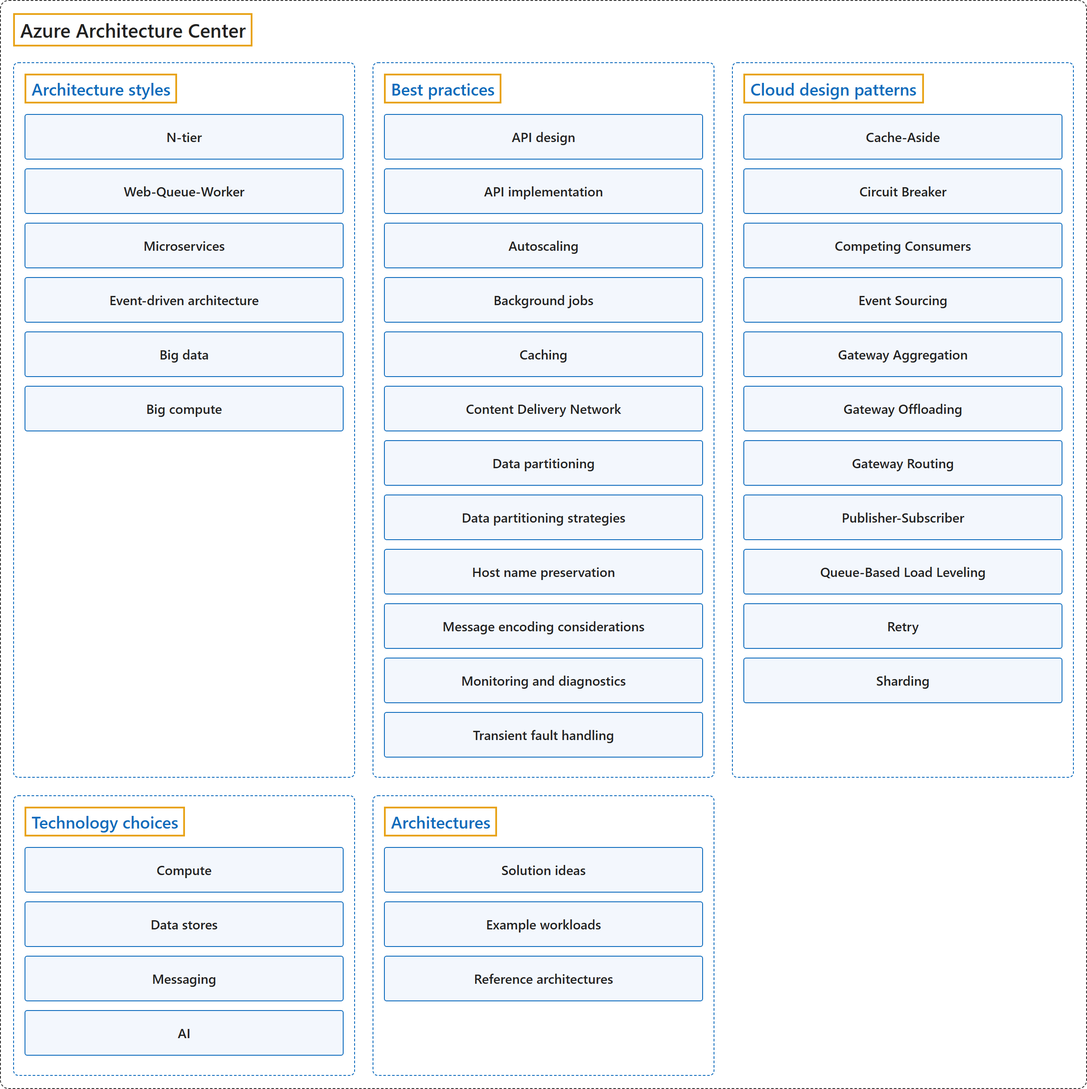
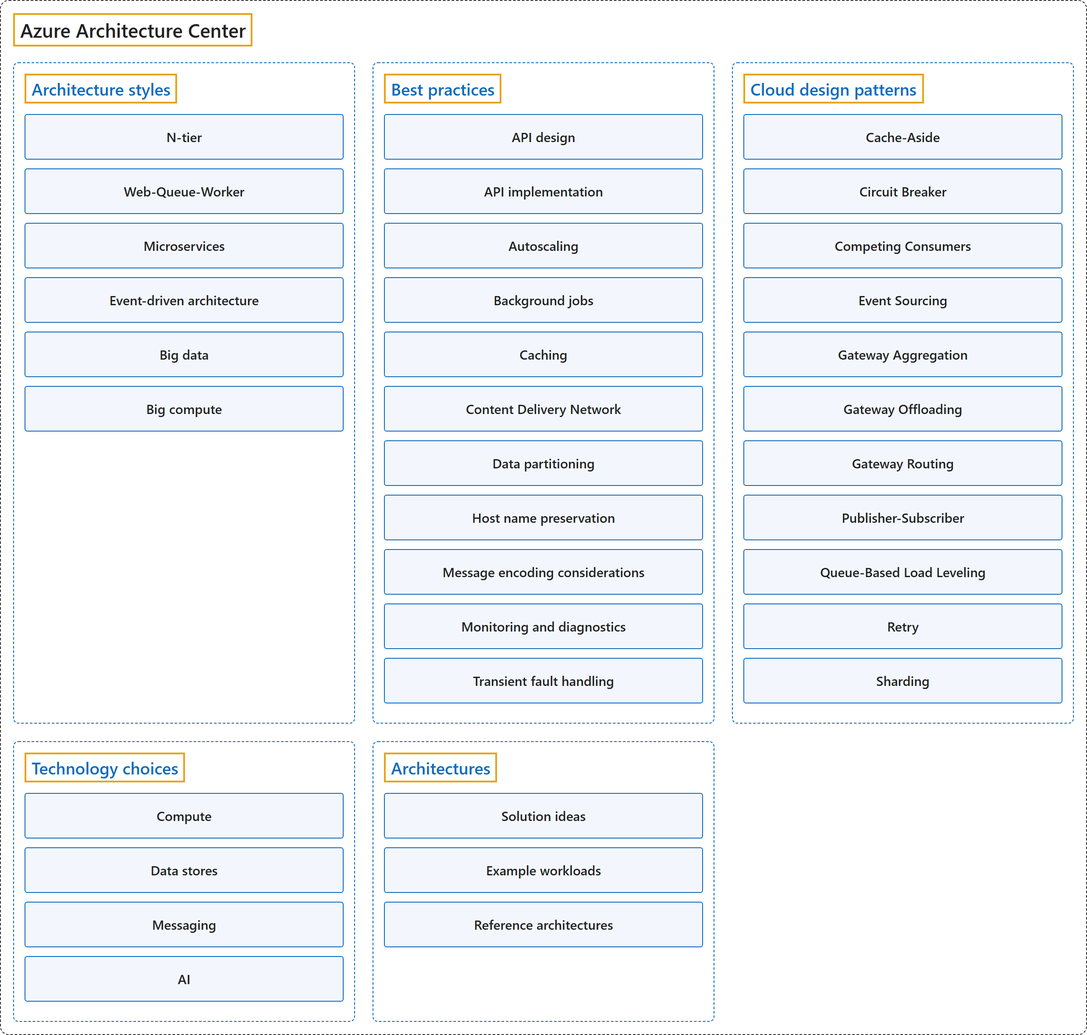
feat(azure): 27.1-27.5 Azure Architecture Center; 26.4 Adopt expanded into its 13 steps

diff --git a/figures/cloud/azure/cloud-adoption-framework/adopt.html b/figures/cloud/azure/cloud-adoption-framework/adopt.html
@@ -18,11 +18,46 @@
   <div class="row" style="gap:70px;align-items:flex-start;">
     <div class="col">
       <div class="group" style="border:none;padding:0 12px 0 12px;">
-        <div class="item">Migration</div>
-        <div class="item">Modernization</div>
-        <div class="item">Cloud-native</div>
+        <div class="item" id="f0">Migration</div>
+        <div class="item" id="f1">Modernization</div>
+        <div class="item" id="f2">Cloud-native</div>
+      </div>
+    </div>
+    <div class="col" style="gap:16px;">
+      <div class="group">
+        <div class="title" id="t0">Migration</div>
+        <div class="item">Plan</div>
+        <div class="item">Prepare</div>
+        <div class="item">Execute</div>
+        <div class="item">Optimize</div>
+        <div class="item">Decommission</div>
+      </div>
+      <div class="group">
+        <div class="title" id="t1">Modernization</div>
+        <div class="item">Prepare</div>
+        <div class="item">Plan</div>
+        <div class="item">Execute</div>
+        <div class="item">Optimize</div>
+      </div>
+      <div class="group">
+        <div class="title" id="t2">Cloud-native</div>
+        <div class="item">Plan</div>
+        <div class="item">Build</div>
+        <div class="item">Deploy</div>
+        <div class="item">Optimize</div>
       </div>
     </div>
   </div>
+  <svg id="link" style="position:absolute;left:0;top:0;overflow:visible;pointer-events:none;"></svg>
 </div>
+<script>
+  const fig = document.getElementById('fig').getBoundingClientRect();
+  let p = '';
+  for (const [f, t] of [['f0','t0'],['f1','t1'],['f2','t2']]) {
+    const a = document.getElementById(f).getBoundingClientRect(), b = document.getElementById(t).getBoundingClientRect();
+    const x1 = a.right - fig.left, y1 = a.top + a.height / 2 - fig.top, x2 = b.left - fig.left, y2 = b.top + b.height / 2 - fig.top, mx = (x1 + x2) / 2;
+    p += `<path d="M${x1},${y1} C${mx},${y1} ${mx},${y2} ${x2},${y2}" fill="none" stroke="#0f6cbd" stroke-width="1.5" stroke-dasharray="5 4"/>`;
+  }
+  document.getElementById('link').innerHTML = p;
+</script>
 </body></html>

diff --git a/figures/cloud/azure/architecture-center/best-practices.html b/figures/cloud/azure/architecture-center/best-practices.html
@@ -1,0 +1,33 @@
+<!doctype html>
+<html><head><meta charset="utf-8">
+<style>
+  body { margin: 0; background: #fff; font-family: "Segoe UI", sans-serif; }
+  .frame { display: inline-block; margin: 2px; padding: 14px 14px 14px; border: 1.5px dashed #333; border-radius: 10px; }
+  .title { display: inline-block; border: 2px solid #e8a317; padding: 2px 6px; font-size: 22px; font-weight: 600; color: #222; margin-bottom: 18px; }
+  .row { display: flex; gap: 14px; align-items: stretch; }
+  .frame > .col { width: 330px; gap: 0; }
+  .col { display: flex; flex-direction: column; gap: 14px; }
+  .col .group { flex: 1 0 auto; }
+  .group { min-width: 330px; border: 1.5px dashed #0f6cbd; border-radius: 6px; padding: 12px; box-sizing: border-box; }
+  .group .title { white-space: nowrap; color: #0f6cbd; font-size: 19px; margin-bottom: 12px; }
+  .item { border: 2px solid #e8a317; background: #f3f7fd; border-radius: 3px; height: 34px; margin-bottom: 8px;
+          display: flex; align-items: center; justify-content: center; font-size: 14px; font-weight: 600; text-align: center; padding: 0 6px; color: #222; }
+</style></head>
+<body>
+<div class="frame" id="fig">
+  <div class="title">Best practices</div>
+  <div class="col">
+    <div class="item">API design</div>
+    <div class="item">API implementation</div>
+    <div class="item">Autoscaling</div>
+    <div class="item">Background jobs</div>
+    <div class="item">Caching</div>
+    <div class="item">Content Delivery Network</div>
+    <div class="item">Data partitioning</div>
+    <div class="item">Host name preservation</div>
+    <div class="item">Message encoding considerations</div>
+    <div class="item">Monitoring and diagnostics</div>
+    <div class="item">Transient fault handling</div>
+  </div>
+</div>
+</body></html>

diff --git a/figures/cloud/azure/architecture-center/cloud-design-patterns.html b/figures/cloud/azure/architecture-center/cloud-design-patterns.html
@@ -1,0 +1,33 @@
+<!doctype html>
+<html><head><meta charset="utf-8">
+<style>
+  body { margin: 0; background: #fff; font-family: "Segoe UI", sans-serif; }
+  .frame { display: inline-block; margin: 2px; padding: 14px 14px 14px; border: 1.5px dashed #333; border-radius: 10px; }
+  .title { display: inline-block; border: 2px solid #e8a317; padding: 2px 6px; font-size: 22px; font-weight: 600; color: #222; margin-bottom: 18px; }
+  .row { display: flex; gap: 14px; align-items: stretch; }
+  .frame > .col { width: 330px; gap: 0; }
+  .col { display: flex; flex-direction: column; gap: 14px; }
+  .col .group { flex: 1 0 auto; }
+  .group { min-width: 330px; border: 1.5px dashed #0f6cbd; border-radius: 6px; padding: 12px; box-sizing: border-box; }
+  .group .title { white-space: nowrap; color: #0f6cbd; font-size: 19px; margin-bottom: 12px; }
+  .item { border: 2px solid #e8a317; background: #f3f7fd; border-radius: 3px; height: 34px; margin-bottom: 8px;
+          display: flex; align-items: center; justify-content: center; font-size: 14px; font-weight: 600; text-align: center; padding: 0 6px; color: #222; }
+</style></head>
+<body>
+<div class="frame" id="fig">
+  <div class="title">Cloud design patterns</div>
+  <div class="col">
+    <div class="item">Cache-Aside</div>
+    <div class="item">Circuit Breaker</div>
+    <div class="item">Competing Consumers</div>
+    <div class="item">Event Sourcing</div>
+    <div class="item">Gateway Aggregation</div>
+    <div class="item">Gateway Offloading</div>
+    <div class="item">Gateway Routing</div>
+    <div class="item">Publisher-Subscriber</div>
+    <div class="item">Queue-Based Load Leveling</div>
+    <div class="item">Retry</div>
+    <div class="item">Sharding</div>
+  </div>
+</div>
+</body></html>

diff --git a/figures/cloud/azure/architecture-center/architecture-styles.html b/figures/cloud/azure/architecture-center/architecture-styles.html
@@ -1,0 +1,28 @@
+<!doctype html>
+<html><head><meta charset="utf-8">
+<style>
+  body { margin: 0; background: #fff; font-family: "Segoe UI", sans-serif; }
+  .frame { display: inline-block; margin: 2px; padding: 14px 14px 14px; border: 1.5px dashed #333; border-radius: 10px; }
+  .title { display: inline-block; border: 2px solid #e8a317; padding: 2px 6px; font-size: 22px; font-weight: 600; color: #222; margin-bottom: 18px; }
+  .row { display: flex; gap: 14px; align-items: stretch; }
+  .frame > .col { width: 330px; gap: 0; }
+  .col { display: flex; flex-direction: column; gap: 14px; }
+  .col .group { flex: 1 0 auto; }
+  .group { min-width: 330px; border: 1.5px dashed #0f6cbd; border-radius: 6px; padding: 12px; box-sizing: border-box; }
+  .group .title { white-space: nowrap; color: #0f6cbd; font-size: 19px; margin-bottom: 12px; }
+  .item { border: 2px solid #e8a317; background: #f3f7fd; border-radius: 3px; height: 34px; margin-bottom: 8px;
+          display: flex; align-items: center; justify-content: center; font-size: 14px; font-weight: 600; text-align: center; padding: 0 6px; color: #222; }
+</style></head>
+<body>
+<div class="frame" id="fig">
+  <div class="title">Architecture styles</div>
+  <div class="col">
+    <div class="item">N-tier</div>
+    <div class="item">Web-Queue-Worker</div>
+    <div class="item">Microservices</div>
+    <div class="item">Event-driven architecture</div>
+    <div class="item">Big data</div>
+    <div class="item">Big compute</div>
+  </div>
+</div>
+</body></html>

diff --git a/figures/cloud/azure/architecture-center/technology-choices.html b/figures/cloud/azure/architecture-center/technology-choices.html
@@ -1,0 +1,26 @@
+<!doctype html>
+<html><head><meta charset="utf-8">
+<style>
+  body { margin: 0; background: #fff; font-family: "Segoe UI", sans-serif; }
+  .frame { display: inline-block; margin: 2px; padding: 14px 14px 14px; border: 1.5px dashed #333; border-radius: 10px; }
+  .title { display: inline-block; border: 2px solid #e8a317; padding: 2px 6px; font-size: 22px; font-weight: 600; color: #222; margin-bottom: 18px; }
+  .row { display: flex; gap: 14px; align-items: stretch; }
+  .frame > .col { width: 330px; gap: 0; }
+  .col { display: flex; flex-direction: column; gap: 14px; }
+  .col .group { flex: 1 0 auto; }
+  .group { min-width: 330px; border: 1.5px dashed #0f6cbd; border-radius: 6px; padding: 12px; box-sizing: border-box; }
+  .group .title { white-space: nowrap; color: #0f6cbd; font-size: 19px; margin-bottom: 12px; }
+  .item { border: 2px solid #e8a317; background: #f3f7fd; border-radius: 3px; height: 34px; margin-bottom: 8px;
+          display: flex; align-items: center; justify-content: center; font-size: 14px; font-weight: 600; text-align: center; padding: 0 6px; color: #222; }
+</style></head>
+<body>
+<div class="frame" id="fig">
+  <div class="title">Technology choices</div>
+  <div class="col">
+    <div class="item">Compute</div>
+    <div class="item">Data stores</div>
+    <div class="item">Messaging</div>
+    <div class="item">AI</div>
+  </div>
+</div>
+</body></html>

diff --git a/figures/cloud/azure/architecture-center/architectures.html b/figures/cloud/azure/architecture-center/architectures.html
@@ -1,0 +1,25 @@
+<!doctype html>
+<html><head><meta charset="utf-8">
+<style>
+  body { margin: 0; background: #fff; font-family: "Segoe UI", sans-serif; }
+  .frame { display: inline-block; margin: 2px; padding: 14px 14px 14px; border: 1.5px dashed #333; border-radius: 10px; }
+  .title { display: inline-block; border: 2px solid #e8a317; padding: 2px 6px; font-size: 22px; font-weight: 600; color: #222; margin-bottom: 18px; }
+  .row { display: flex; gap: 14px; align-items: stretch; }
+  .frame > .col { width: 330px; gap: 0; }
+  .col { display: flex; flex-direction: column; gap: 14px; }
+  .col .group { flex: 1 0 auto; }
+  .group { min-width: 330px; border: 1.5px dashed #0f6cbd; border-radius: 6px; padding: 12px; box-sizing: border-box; }
+  .group .title { white-space: nowrap; color: #0f6cbd; font-size: 19px; margin-bottom: 12px; }
+  .item { border: 2px solid #e8a317; background: #f3f7fd; border-radius: 3px; height: 34px; margin-bottom: 8px;
+          display: flex; align-items: center; justify-content: center; font-size: 14px; font-weight: 600; text-align: center; padding: 0 6px; color: #222; }
+</style></head>
+<body>
+<div class="frame" id="fig">
+  <div class="title">Architectures</div>
+  <div class="col">
+    <div class="item">Solution ideas</div>
+    <div class="item">Example workloads</div>
+    <div class="item">Reference architectures</div>
+  </div>
+</div>
+</body></html>

diff --git a/figures/cloud/azure/architecture-center/architecture-center.html b/figures/cloud/azure/architecture-center/architecture-center.html
@@ -38,7 +38,6 @@
         <div class="item">Caching</div>
         <div class="item">Content Delivery Network</div>
         <div class="item">Data partitioning</div>
-        <div class="item">Data partitioning strategies</div>
         <div class="item">Host name preservation</div>
         <div class="item">Message encoding considerations</div>
         <div class="item">Monitoring and diagnostics</div>

diff --git a/docs/cloud/azure/cloud-adoption-framework/adopt.md b/docs/cloud/azure/cloud-adoption-framework/adopt.md
@@ -8,20 +8,43 @@ ms.date: 2026-10-27
 
 ## Classification
 
-![Adopt, in its sections: Migration, Modernization, Cloud-native.](media/adopt.png)
+![Adopt, in its sections: Migration (expanded into Plan, Prepare, Execute, Optimize, Decommission), Modernization (expanded into Prepare, Plan, Execute, Optimize), Cloud-native (expanded into Plan, Build, Deploy, Optimize), in the order of the CAF table of contents.](media/adopt.png)
 
 ## Glossary
 
 | Term | Definition | 中文解释 | Source |
 |---|---|---|---|
 | **Adopt**<br>采用 | (context) "**How will we migrate, modernize, and build workloads?**" | （语境）**我们要怎样迁移、现代化和构建工作负载？** | [Microsoft, 2026a, "How the Cloud Adoption Framework works" section, table row 4](https://learn.microsoft.com/en-us/azure/cloud-adoption-framework/overview#:~:text=How%20will%20we%20migrate%2C%20modernize%2C%20and%20build%20workloads%3F) |
-| **Migration**<br>迁移 | (context) "This plan **translates high-level migration strategies** into **actionable deployment sequences**." | （语境）该计划把**高层次的迁移策略转化**为**可执行的部署顺序**。 | [Microsoft, 2026d, para. 1](https://learn.microsoft.com/en-us/azure/cloud-adoption-framework/migrate/plan-migration#:~:text=This%20plan%20translates%20high-level%20migration%20strategies) |
-| **Modernization**<br>现代化 | "Modernization is **improving how a workload meets requirements** by **expanding its capabilities or making it more efficient to maintain and evolve**." | 现代化是**改进工作负载满足要求的方式**，方法是**扩展其能力，或使其更易于维护和演进**。 | [Microsoft, 2026b, "What is modernization?" section, para. 1](https://learn.microsoft.com/en-us/azure/cloud-adoption-framework/modernize/prepare-organization-cloud-modernization#:~:text=Modernization%20is%20improving%20how%20a%20workload%20meets%20requirements) |
-| **Cloud-native**<br>云原生 | "A **cloud-native solution** creates **business value by building new workloads or enhancing existing ones**." | **云原生解决方案**通过**构建新工作负载或增强现有工作负载来创造业务价值**。 | [Microsoft, 2026c, para. 1](https://learn.microsoft.com/en-us/azure/cloud-adoption-framework/cloud-native/plan-cloud-native-solutions#:~:text=A%20cloud-native%20solution%20creates%20business%20value) |
+| **Migration**<br>迁移 | (context) "This plan **translates high-level migration strategies** into **actionable deployment sequences**." | （语境）该计划把**高层次的迁移策略转化**为**可执行的部署顺序**。 | [Microsoft, 2026f, para. 1](https://learn.microsoft.com/en-us/azure/cloud-adoption-framework/migrate/plan-migration#:~:text=This%20plan%20translates%20high-level%20migration%20strategies) |
+| **Plan (Migration)**<br>规划（迁移） | "A **migration plan** defines **the specific order, timing, and approach for migrating workloads to Azure**." | **迁移计划**定义了**把工作负载迁移到 Azure 的具体顺序、时间和方法**。 | [Microsoft, 2026f, para. 1](https://learn.microsoft.com/en-us/azure/cloud-adoption-framework/migrate/plan-migration#:~:text=A%20migration%20plan%20defines%20the%20specific%20order) |
+| **Prepare (Migration)**<br>准备（迁移） | (context) "Before migrating to Azure, **workloads must be cloud-ready**. Cloud readiness **reduces cutover risk** and **ensures compatibility with Azure services**." | （语境）迁移到 Azure 之前，**工作负载必须做好上云准备**。上云准备**降低切换风险**，并**确保与 Azure 服务兼容**。 | [Microsoft, 2025h, para. 1](https://learn.microsoft.com/en-us/azure/cloud-adoption-framework/migrate/prepare-workloads-cloud#:~:text=Before%20migrating%20to%20Azure%2C%20workloads%20must%20be%20cloud-ready) |
+| **Execute (Migration)**<br>执行（迁移） | (context) "This article provides structured guidance for **executing a successful migration to Azure**. The guidance covers both **near-zero downtime and planned downtime approaches** to accommodate different business requirements." | （语境）本文为**成功执行向 Azure 的迁移**提供结构化指导。该指导涵盖**近零停机和计划停机两种方法**，以适应不同的业务要求。 | [Microsoft, 2025c, para. 1](https://learn.microsoft.com/en-us/azure/cloud-adoption-framework/migrate/execute-migration#:~:text=provides%20structured%20guidance%20for%20executing%20a%20successful%20migration) |
+| **Optimize (Migration)**<br>优化（迁移） | (context) "A successful migration **doesn't end at cutover**. **Post-migration optimization** ensures workloads operate **efficiently, securely, and cost-effectively** in Azure." | （语境）成功的迁移**并不止于切换**。**迁移后优化**确保工作负载在 Azure 中**高效、安全且经济地**运行。 | [Microsoft, 2025f, para. 1](https://learn.microsoft.com/en-us/azure/cloud-adoption-framework/migrate/optimize-workloads-after-migration#:~:text=A%20successful%20migration%20doesn) |
+| **Decommission (Migration)**<br>停用（迁移） | (context) "This article provides guidance to **safely decommission source workloads** after **successful migration to Azure**." | （语境）本文提供指导，帮助**安全地停用源工作负载**，时机是**成功迁移到 Azure** 之后。 | [Microsoft, 2025b, para. 1](https://learn.microsoft.com/en-us/azure/cloud-adoption-framework/migrate/decommission-source-workload#:~:text=provides%20guidance%20to%20safely%20decommission%20source%20workloads) |
+| **Modernization**<br>现代化 | "Modernization is **improving how a workload meets requirements** by **expanding its capabilities or making it more efficient to maintain and evolve**." | 现代化是**改进工作负载满足要求的方式**，方法是**扩展其能力，或使其更易于维护和演进**。 | [Microsoft, 2026c, "What is modernization?" section, para. 1](https://learn.microsoft.com/en-us/azure/cloud-adoption-framework/modernize/prepare-organization-cloud-modernization#:~:text=Modernization%20is%20improving%20how%20a%20workload%20meets%20requirements) |
+| **Prepare (Modernization)**<br>准备（现代化） | (context) "Organizations need a consistent way to determine **which modernization opportunities justify investment** and **how to prioritize them** across the workload portfolio." | （语境）组织需要一种一致的方法来确定**哪些现代化机会值得投资**，以及**如何在工作负载组合中确定它们的优先级**。 | [Microsoft, 2026c, para. 1](https://learn.microsoft.com/en-us/azure/cloud-adoption-framework/modernize/prepare-organization-cloud-modernization#:~:text=Organizations%20need%20a%20consistent%20way%20to%20determine%20which%20modernization%20opportunities) |
+| **Plan (Modernization)**<br>规划（现代化） | (context) "**Proper planning and governance** are critical to modernization. In this stage, you decide **which modernization approach to apply and how to do it**." | （语境）**适当的规划和治理**对现代化至关重要。在这个阶段，你要决定**采用哪种现代化方法以及如何实施**。 | [Microsoft, 2025g, para. 1](https://learn.microsoft.com/en-us/azure/cloud-adoption-framework/modernize/plan-cloud-modernization#:~:text=Proper%20planning%20and%20governance%20are%20critical%20to%20modernization) |
+| **Execute (Modernization)**<br>执行（现代化） | "Execution is the phase where you **implement your modernization plan**." | 执行是你**实施现代化计划**的阶段。 | [Microsoft, 2025d, para. 1](https://learn.microsoft.com/en-us/azure/cloud-adoption-framework/modernize/execute-cloud-modernization#:~:text=Execution%20is%20the%20phase%20where%20you%20implement%20your%20modernization%20plan) |
+| **Optimize (Modernization)**<br>优化（现代化） | (context) "After you complete a modernization phase or the entire project, it's time to ensure you're **getting the full benefits** and to **embed a culture of continuous improvement**." | （语境）完成某个现代化阶段或整个项目后，就该确保你**获得全部收益**，并**融入持续改进的文化**。 | [Microsoft, 2026d, para. 1](https://learn.microsoft.com/en-us/azure/cloud-adoption-framework/modernize/optimize-after-cloud-modernization#:~:text=After%20you%20complete%20a%20modernization%20phase%20or%20the%20entire%20project) |
+| **Cloud-native**<br>云原生 | "A **cloud-native solution** creates **business value by building new workloads or enhancing existing ones**." | **云原生解决方案**通过**构建新工作负载或增强现有工作负载来创造业务价值**。 | [Microsoft, 2026e, para. 1](https://learn.microsoft.com/en-us/azure/cloud-adoption-framework/cloud-native/plan-cloud-native-solutions#:~:text=A%20cloud-native%20solution%20creates%20business%20value) |
+| **Plan (Cloud-native)**<br>规划（云原生） | (context) "Whether you're developing a new application or adding new features to an existing system, cloud-native development is a **journey through planning, building, deploying, and optimizing your workloads**." | （语境）无论是开发新应用程序，还是为现有系统添加新功能，云原生开发都是一段**经历规划、构建、部署和优化工作负载的历程**。 | [Microsoft, 2026e, para. 1](https://learn.microsoft.com/en-us/azure/cloud-adoption-framework/cloud-native/plan-cloud-native-solutions#:~:text=cloud-native%20development%20is%20a%20journey%20through%20planning) |
+| **Build (Cloud-native)**<br>构建（云原生） | (context) "After planning, **build and configure the solution in a development environment**. Follow best practices and **ensure quality through testing**." | （语境）规划之后，**在开发环境中构建并配置解决方案**。遵循最佳做法，并**通过测试确保质量**。 | [Microsoft, 2025a, para. 1](https://learn.microsoft.com/en-us/azure/cloud-adoption-framework/cloud-native/build-cloud-native-solutions#:~:text=After%20planning%2C%20build%20and%20configure%20the%20solution) |
+| **Deploy (Cloud-native)**<br>部署（云原生） | (context) "Now, **deploy the solution to the live Azure environment** following the **planned strategy**." | （语境）现在，**把解决方案部署到实时 Azure 环境**，遵循**计划的策略**。 | [Microsoft, 2026b, para. 1](https://learn.microsoft.com/en-us/azure/cloud-adoption-framework/cloud-native/deploy-cloud-native-solutions#:~:text=deploy%20the%20solution%20to%20the%20live%20Azure%20environment) |
+| **Optimize (Cloud-native)**<br>优化（云原生） | (context) "A deployed solution must **evolve to remain secure, cost-effective, and performant**." | （语境）已部署的解决方案必须**不断演进，以保持安全、经济和高性能**。 | [Microsoft, 2025e, para. 1](https://learn.microsoft.com/en-us/azure/cloud-adoption-framework/cloud-native/optimize-cloud-native-solutions#:~:text=A%20deployed%20solution%20must%20evolve%20to%20remain%20secure) |
 
 ## References
 
-- Microsoft. (2026a, September 4). *Cloud Adoption Framework for Azure*. Microsoft Learn. https://learn.microsoft.com/en-us/azure/cloud-adoption-framework/overview
-- Microsoft. (2026b, October 19). *Modernization preparation*. Cloud Adoption Framework. Microsoft Learn. https://learn.microsoft.com/en-us/azure/cloud-adoption-framework/modernize/prepare-organization-cloud-modernization
-- Microsoft. (2026c, March 25). *Plan the cloud-native solutions*. Cloud Adoption Framework. Microsoft Learn. https://learn.microsoft.com/en-us/azure/cloud-adoption-framework/cloud-native/plan-cloud-native-solutions
-- Microsoft. (2026d, March 25). *Plan your migration*. Cloud Adoption Framework. Microsoft Learn. https://learn.microsoft.com/en-us/azure/cloud-adoption-framework/migrate/plan-migration
+- Microsoft. (2025a, August 1). *Build cloud-native solutions*. Cloud Adoption Framework. Microsoft Learn. https://learn.microsoft.com/en-us/azure/cloud-adoption-framework/cloud-native/build-cloud-native-solutions
+- Microsoft. (2025b, July 22). *Decommission source workloads after migration to cloud*. Cloud Adoption Framework. Microsoft Learn. https://learn.microsoft.com/en-us/azure/cloud-adoption-framework/migrate/decommission-source-workload
+- Microsoft. (2025c, August 20). *Execute migration to cloud*. Cloud Adoption Framework. Microsoft Learn. https://learn.microsoft.com/en-us/azure/cloud-adoption-framework/migrate/execute-migration
+- Microsoft. (2025d, August 1). *Execute modernizations in the cloud*. Cloud Adoption Framework. Microsoft Learn. https://learn.microsoft.com/en-us/azure/cloud-adoption-framework/modernize/execute-cloud-modernization
+- Microsoft. (2025e, August 1). *Optimize the cloud-native solutions after deployment*. Cloud Adoption Framework. Microsoft Learn. https://learn.microsoft.com/en-us/azure/cloud-adoption-framework/cloud-native/optimize-cloud-native-solutions
+- Microsoft. (2025f, August 1). *Optimize workloads after migration*. Cloud Adoption Framework. Microsoft Learn. https://learn.microsoft.com/en-us/azure/cloud-adoption-framework/migrate/optimize-workloads-after-migration
+- Microsoft. (2025g, August 1). *Plan your cloud modernization*. Cloud Adoption Framework. Microsoft Learn. https://learn.microsoft.com/en-us/azure/cloud-adoption-framework/modernize/plan-cloud-modernization
+- Microsoft. (2025h, September 15). *Prepare workloads for the cloud*. Cloud Adoption Framework. Microsoft Learn. https://learn.microsoft.com/en-us/azure/cloud-adoption-framework/migrate/prepare-workloads-cloud
+- Microsoft. (2026a, September 4). *Cloud Adoption Framework for Azure*. Cloud Adoption Framework. Microsoft Learn. https://learn.microsoft.com/en-us/azure/cloud-adoption-framework/overview
+- Microsoft. (2026b, February 18). *Deploy cloud-native solutions*. Cloud Adoption Framework. Microsoft Learn. https://learn.microsoft.com/en-us/azure/cloud-adoption-framework/cloud-native/deploy-cloud-native-solutions
+- Microsoft. (2026c, October 19). *Modernization preparation*. Cloud Adoption Framework. Microsoft Learn. https://learn.microsoft.com/en-us/azure/cloud-adoption-framework/modernize/prepare-organization-cloud-modernization
+- Microsoft. (2026d, March 9). *Optimize workloads after cloud modernization*. Cloud Adoption Framework. Microsoft Learn. https://learn.microsoft.com/en-us/azure/cloud-adoption-framework/modernize/optimize-after-cloud-modernization
+- Microsoft. (2026e, March 25). *Plan the cloud-native solutions*. Cloud Adoption Framework. Microsoft Learn. https://learn.microsoft.com/en-us/azure/cloud-adoption-framework/cloud-native/plan-cloud-native-solutions
+- Microsoft. (2026f, March 25). *Plan your migration*. Cloud Adoption Framework. Microsoft Learn. https://learn.microsoft.com/en-us/azure/cloud-adoption-framework/migrate/plan-migration

diff --git a/docs/cloud/azure/architecture-center/best-practices.md b/docs/cloud/azure/architecture-center/best-practices.md
@@ -1,11 +1,31 @@
 ---
 title: "27.2 Best practices"
-description: "Microsoft Azure, 27.2 Best practices: API design, API implementation, Autoscaling, Background jobs, Caching, Content Delivery Network, Data partitioning, Data partitioning strategies, Host name preservation, Message encoding considerations, Monitoring and diagnostics, Transient fault handling."
-ms.date: 2026-10-24
+description: "Microsoft Azure, 27.2 Best practices: API design, API implementation, Autoscaling, Background jobs, Caching, Content Delivery Network, Data partitioning, Host name preservation, Message encoding considerations, Monitoring and diagnostics, Transient fault handling."
+ms.date: 2026-10-27
 ---
 
 # 27.2 Best practices
 
-Sources: [Best practices in cloud applications](https://learn.microsoft.com/en-us/azure/architecture/best-practices/index-best-practices).
+## Classification
 
-Not written yet.
+![Best practices, 11 terms from Best practices in cloud applications, in its order: API design, API implementation, Autoscaling, Background jobs, Caching, Content Delivery Network, Data partitioning, Host name preservation, Message encoding considerations, Monitoring and diagnostics, Transient fault handling.](media/best-practices.png)
+
+## Glossary
+
+| Term | Definition | 中文翻译 | Source |
+|---|---|---|---|
+| **API design**<br>API 设计 | "Design web APIs to **support platform independence** by using **standard protocols and agreed-upon data formats**." | 设计 Web API，**支持平台独立性**，方法是使用**标准协议和商定的数据格式**。 | [Microsoft, 2026, "Practice" table, row 1](https://learn.microsoft.com/en-us/azure/architecture/best-practices/index-best-practices#:~:text=Design%20web%20APIs%20to%20support%20platform%20independence) |
+| **API implementation**<br>API 实现 | "Implement **RESTful web APIs** with **HTTP method semantics, request validation, and safe retry behavior**." | 实现 **RESTful Web API**，具备 **HTTP 方法语义、请求验证和安全的重试行为**。 | [Microsoft, 2026, "Practice" table, row 2](https://learn.microsoft.com/en-us/azure/architecture/best-practices/index-best-practices#:~:text=Implement%20RESTful%20web%20APIs) |
+| **Autoscaling**<br>自动缩放 | "Design apps to **dynamically allocate and deallocate resources** to **satisfy performance requirements and minimize costs**." | 设计应用以**动态分配和释放资源**，从而**满足性能要求并尽量降低成本**。 | [Microsoft, 2026, "Practice" table, row 3](https://learn.microsoft.com/en-us/azure/architecture/best-practices/index-best-practices#:~:text=Design%20apps%20to%20dynamically%20allocate%20and%20deallocate%20resources) |
+| **Background jobs**<br>后台作业 | "Implement **batch jobs, processing tasks, and workflows** as **background jobs**." | 把**批处理作业、处理任务和工作流**实现为**后台作业**。 | [Microsoft, 2026, "Practice" table, row 4](https://learn.microsoft.com/en-us/azure/architecture/best-practices/index-best-practices#:~:text=Implement%20batch%20jobs%2C%20processing%20tasks%2C%20and%20workflows%20as%20background%20jobs) |
+| **Caching**<br>缓存 | "Improve performance by **copying data to fast storage** that's **close to apps**." | 通过**把数据复制到快速存储**来提高性能，这种存储**靠近应用**。 | [Microsoft, 2026, "Practice" table, row 5](https://learn.microsoft.com/en-us/azure/architecture/best-practices/index-best-practices#:~:text=Improve%20performance%20by%20copying%20data%20to%20fast%20storage) |
+| **Content Delivery Network**<br>内容分发网络 | "Use content delivery networks (CDNs) to **efficiently deliver web content to users** and **reduce load on web apps**." | 使用内容分发网络 (CDN) **高效地向用户交付 Web 内容**，并**减轻 Web 应用的负载**。 | [Microsoft, 2026, "Practice" table, row 6](https://learn.microsoft.com/en-us/azure/architecture/best-practices/index-best-practices#:~:text=Use%20content%20delivery%20networks%20%28CDNs%29%20to%20efficiently%20deliver%20web%20content) |
+| **Data partitioning**<br>数据分区 | "Partition data to **improve scalability, availability, and performance** and to **reduce contention and data storage costs**." | 对数据进行分区，以**提高可伸缩性、可用性和性能**，并**减少争用和数据存储成本**。 | [Microsoft, 2026, "Practice" table, row 7](https://learn.microsoft.com/en-us/azure/architecture/best-practices/index-best-practices#:~:text=Partition%20data%20to%20improve%20scalability%2C%20availability%2C%20and%20performance) |
+| **Host name preservation**<br>主机名保留 | "Learn why it's important to **preserve the original HTTP host name** between a **reverse proxy and its back-end web application** and how to implement this recommendation for the most common Azure services." | 了解为什么要**保留原始 HTTP 主机名**，范围是**反向代理与其后端 Web 应用程序**之间，以及如何在最常用的 Azure 服务中实现这项建议。 | [Microsoft, 2026, "Practice" table, row 8](https://learn.microsoft.com/en-us/azure/architecture/best-practices/index-best-practices#:~:text=preserve%20the%20original%20HTTP%20host%20name) |
+| **Message encoding considerations**<br>消息编码注意事项 | "Choose the **payload structure, encoding format, and serialization library** for **asynchronous messages** exchanged between system components." | 选择**有效负载结构、编码格式和序列化库**，用于系统组件之间交换的**异步消息**。 | [Microsoft, 2026, "Practice" table, row 9](https://learn.microsoft.com/en-us/azure/architecture/best-practices/index-best-practices#:~:text=Choose%20the%20payload%20structure%2C%20encoding%20format%2C%20and%20serialization%20library) |
+| **Monitoring and diagnostics**<br>监视和诊断 | "Track **system health, usage, and performance** by using a **monitoring and diagnostics pipeline**." | 跟踪**系统运行状况、使用情况和性能**，方法是使用**监视和诊断管道**。 | [Microsoft, 2026, "Practice" table, row 10](https://learn.microsoft.com/en-us/azure/architecture/best-practices/index-best-practices#:~:text=Track%20system%20health%2C%20usage%2C%20and%20performance) |
+| **Transient fault handling**<br>暂时性故障处理 | "Handle **transient faults** caused by **unavailable networks or resources**." | 处理**暂时性故障**，这些故障由**不可用的网络或资源**引起。 | [Microsoft, 2026, "Practice" table, row 11](https://learn.microsoft.com/en-us/azure/architecture/best-practices/index-best-practices#:~:text=Handle%20transient%20faults%20caused%20by%20unavailable%20networks) |
+
+## References
+
+- Microsoft. (2026, October 27). *Best practices in cloud applications*. Azure Architecture Center. https://learn.microsoft.com/en-us/azure/architecture/best-practices/index-best-practices

diff --git a/docs/cloud/azure/architecture-center/cloud-design-patterns.md b/docs/cloud/azure/architecture-center/cloud-design-patterns.md
@@ -1,11 +1,31 @@
 ---
 title: "27.3 Cloud design patterns"
 description: "Microsoft Azure, 27.3 Cloud design patterns: Cache-Aside, Circuit Breaker, Competing Consumers, Event Sourcing, Gateway Aggregation, Gateway Offloading, Gateway Routing, Publisher-Subscriber, Queue-Based Load Leveling, Retry, Sharding."
-ms.date: 2026-10-24
+ms.date: 2026-10-27
 ---
 
 # 27.3 Cloud design patterns
 
-Sources: [Cloud design patterns](https://learn.microsoft.com/en-us/azure/architecture/patterns/).
+## Classification
 
-Not written yet.
+![Cloud design patterns, 11 terms from Cloud design patterns, in its order: Cache-Aside, Circuit Breaker, Competing Consumers, Event Sourcing, Gateway Aggregation, Gateway Offloading, Gateway Routing, Publisher-Subscriber, Queue-Based Load Leveling, Retry, Sharding.](media/cloud-design-patterns.png)
+
+## Glossary
+
+| Term | Definition | 中文翻译 | Source |
+|---|---|---|---|
+| **Cache-Aside**<br>缓存端 | "**Load data on demand** into a **cache** from a **data store**." | **按需加载数据**到**缓存**中，数据来自**数据存储**。 | [Microsoft, 2026, "Catalog of patterns" table, "Cache-Aside" row](https://learn.microsoft.com/en-us/azure/architecture/patterns/#:~:text=Load%20data%20on%20demand%20into%20a%20cache%20from%20a%20data%20store) |
+| **Circuit Breaker**<br>断路器 | "Handle **faults that might take a variable amount of time to fix** when an application **connects to a remote service or resource**." | 处理**修复所需时间可能不确定的故障**，这类故障发生在应用程序**连接到远程服务或资源**时。 | [Microsoft, 2026, "Catalog of patterns" table, "Circuit Breaker" row](https://learn.microsoft.com/en-us/azure/architecture/patterns/#:~:text=Handle%20faults%20that%20might%20take%20a%20variable%20amount%20of%20time%20to%20fix) |
+| **Competing Consumers**<br>竞争使用者 | "Enable **multiple concurrent consumers** to **process messages** that they receive on the **same messaging channel**." | 让**多个并发使用者**能够**处理消息**，这些消息来自**同一个消息通道**。 | [Microsoft, 2026, "Catalog of patterns" table, "Competing Consumers" row](https://learn.microsoft.com/en-us/azure/architecture/patterns/#:~:text=Enable%20multiple%20concurrent%20consumers%20to%20process%20messages) |
+| **Event Sourcing**<br>事件溯源 | "Use an **append-only store** to **record a full series of events** that describe actions taken on data in a domain." | 使用**仅追加存储**来**记录一系列完整的事件**，这些事件描述对某个域中数据执行的操作。 | [Microsoft, 2026, "Catalog of patterns" table, "Event Sourcing" row](https://learn.microsoft.com/en-us/azure/architecture/patterns/#:~:text=Use%20an%20append-only%20store%20to%20record%20a%20full%20series%20of%20events) |
+| **Gateway Aggregation**<br>网关聚合 | "Use a **gateway** to **aggregate multiple individual requests into a single request**." | 使用**网关**，**把多个单独的请求聚合为一个请求**。 | [Microsoft, 2026, "Catalog of patterns" table, "Gateway Aggregation" row](https://learn.microsoft.com/en-us/azure/architecture/patterns/#:~:text=Use%20a%20gateway%20to%20aggregate%20multiple%20individual%20requests) |
+| **Gateway Offloading**<br>网关卸载 | "**Offload shared or specialized service functionality** to a **gateway proxy**." | **把共享或专用的服务功能卸载**到**网关代理**。 | [Microsoft, 2026, "Catalog of patterns" table, "Gateway Offloading" row](https://learn.microsoft.com/en-us/azure/architecture/patterns/#:~:text=Offload%20shared%20or%20specialized%20service%20functionality) |
+| **Gateway Routing**<br>网关路由 | "**Route requests to multiple services** by using a **single endpoint**." | **把请求路由到多个服务**，使用的是**单个终结点**。 | [Microsoft, 2026, "Catalog of patterns" table, "Gateway Routing" row](https://learn.microsoft.com/en-us/azure/architecture/patterns/#:~:text=Route%20requests%20to%20multiple%20services%20by%20using%20a%20single%20endpoint) |
+| **Publisher-Subscriber**<br>发布服务器-订阅服务器 | "Enable an application to **announce events to multiple consumers asynchronously**, **without coupling senders to receivers**." | 让应用程序能够**异步地向多个使用者发布事件**，**而不把发送方和接收方耦合在一起**。 | [Microsoft, 2026, "Catalog of patterns" table, "Publisher-Subscriber" row](https://learn.microsoft.com/en-us/azure/architecture/patterns/#:~:text=Enable%20an%20application%20to%20announce%20events%20to%20multiple%20consumers) |
+| **Queue-Based Load Leveling**<br>基于队列的负载均衡 | "Use a **queue** that **creates a buffer between a task and a service** to **smooth intermittent heavy loads**." | 使用**队列**，**在任务和服务之间创建缓冲区**，以**平滑间歇性的重负载**。 | [Microsoft, 2026, "Catalog of patterns" table, "Queue-Based Load Leveling" row](https://learn.microsoft.com/en-us/azure/architecture/patterns/#:~:text=Use%20a%20queue%20that%20creates%20a%20buffer%20between%20a%20task%20and%20a%20service) |
+| **Retry**<br>重试 | "Enable applications to **handle anticipated temporary failures** by **retrying failed operations**." | 让应用程序能够**处理预期的暂时性故障**，方法是**重试失败的操作**。 | [Microsoft, 2026, "Catalog of patterns" table, "Retry" row](https://learn.microsoft.com/en-us/azure/architecture/patterns/#:~:text=Enable%20applications%20to%20handle%20anticipated%20temporary%20failures) |
+| **Sharding**<br>分片 | "Divide a **data store** into a set of **horizontal partitions or shards**." | 把**数据存储**划分为一组**水平分区或分片**。 | [Microsoft, 2026, "Catalog of patterns" table, "Sharding" row](https://learn.microsoft.com/en-us/azure/architecture/patterns/#:~:text=Divide%20a%20data%20store%20into%20a%20set%20of%20horizontal%20partitions%20or%20shards) |
+
+## References
+
+- Microsoft. (2026, June 3). *Cloud design patterns*. Azure Architecture Center. https://learn.microsoft.com/en-us/azure/architecture/patterns/

diff --git a/docs/cloud/azure/architecture-center/architecture-styles.md b/docs/cloud/azure/architecture-center/architecture-styles.md
@@ -1,11 +1,26 @@
 ---
 title: "27.1 Architecture styles"
 description: "Microsoft Azure, 27.1 Architecture styles: N-tier, Web-Queue-Worker, Microservices, Event-driven architecture, Big data, Big compute."
-ms.date: 2026-10-24
+ms.date: 2026-10-27
 ---
 
 # 27.1 Architecture styles
 
-Sources: [Architecture styles](https://learn.microsoft.com/en-us/azure/architecture/guide/architecture-styles/).
+## Classification
 
-Not written yet.
+![Architecture styles, 6 terms from Architecture styles, in its order: N-tier, Web-Queue-Worker, Microservices, Event-driven architecture, Big data, Big compute.](media/architecture-styles.png)
+
+## Glossary
+
+| Term | Definition | 中文翻译 | Source |
+|---|---|---|---|
+| **N-tier**<br>N 层 | "N-tier is a **traditional architecture for enterprise applications** that **divides an application into logical layers and physical tiers**." | N 层是一种**面向企业应用程序的传统体系结构**，它**把应用程序划分为逻辑层和物理层级**。 | [Microsoft, 2025, "A quick tour of the styles" section, "N-tier", para. 1](https://learn.microsoft.com/en-us/azure/architecture/guide/architecture-styles/#:~:text=is%20a%20traditional%20architecture%20for%20enterprise%20applications) |
+| **Web-Queue-Worker**<br>Web-队列-辅助角色 | "Web-Queue-Worker is an architecture that consists of a **web front end, a message queue, and a back-end worker**." | Web-队列-辅助角色是一种体系结构，由 **Web 前端、消息队列和后端辅助角色**组成。 | [Microsoft, 2025, "A quick tour of the styles" section, "Web-Queue-Worker", para. 1](https://learn.microsoft.com/en-us/azure/architecture/guide/architecture-styles/#:~:text=is%20an%20architecture%20that%20consists%20of%20a%20web%20front%20end) |
+| **Microservices**<br>微服务 | "The Microservices architecture **decomposes applications into a collection of small, autonomous services**." | 微服务体系结构**把应用程序分解为一组小型的自治服务**。 | [Microsoft, 2025, "A quick tour of the styles" section, "Microservices", para. 1](https://learn.microsoft.com/en-us/azure/architecture/guide/architecture-styles/#:~:text=architecture%20decomposes%20applications%20into%20a%20collection%20of%20small%2C%20autonomous%20services) |
+| **Event-driven architecture**<br>事件驱动体系结构 | "Event-driven architectures use a **publish-subscribe model** where **event producers generate streams of events**, and **event consumers respond to those events** in near real time." | 事件驱动体系结构使用**发布-订阅模型**，其中**事件生成者生成事件流**，**事件使用者近实时地响应这些事件**。 | [Microsoft, 2025, "A quick tour of the styles" section, "Event-driven architecture", para. 1](https://learn.microsoft.com/en-us/azure/architecture/guide/architecture-styles/#:~:text=architectures%20use%20a) |
+| **Big data**<br>大数据 | "Big data architectures handle the **ingestion, processing, and analysis of data** that's **too large or complex for traditional database systems**." | 大数据体系结构负责**数据的引入、处理和分析**，这些数据**对传统数据库系统来说过于庞大或复杂**。 | [Microsoft, 2025, "A quick tour of the styles" section, "Big data", para. 1](https://learn.microsoft.com/en-us/azure/architecture/guide/architecture-styles/#:~:text=architectures%20handle%20the%20ingestion%2C%20processing%2C%20and%20analysis%20of%20data) |
+| **Big compute**<br>大计算 | "Big compute architectures support **large-scale workloads** that require **hundreds or thousands of cores** for computationally intensive operations." | 大计算体系结构支持**大规模工作负载**，这些工作负载需要**数百或数千个核心**来执行计算密集型操作。 | [Microsoft, 2025, "A quick tour of the styles" section, "Big compute", para. 1](https://learn.microsoft.com/en-us/azure/architecture/guide/architecture-styles/#:~:text=architectures%20support%20large-scale%20workloads) |
+
+## References
+
+- Microsoft. (2025, October 14). *Architecture styles*. Azure Architecture Center. https://learn.microsoft.com/en-us/azure/architecture/guide/architecture-styles/

diff --git a/docs/cloud/azure/architecture-center/README.md b/docs/cloud/azure/architecture-center/README.md
@@ -7,9 +7,11 @@ Follows `../README.md`. Figure on `index.md`: classification (see `../README.md`
 | No. | File | Title (group name in the figure) | Sources | Allowed sections (the groups of the sub-page figure, in figure order) |
 |---|---|---|---|---|
 | 27.1 | `architecture-styles.md` | Architecture styles | [Architecture styles](https://learn.microsoft.com/en-us/azure/architecture/guide/architecture-styles/) | 27.1.1 N-tier, 27.1.2 Web-Queue-Worker, 27.1.3 Microservices, 27.1.4 Event-driven architecture, 27.1.5 Big data, 27.1.6 Big compute |
-| 27.2 | `best-practices.md` | Best practices | [Best practices in cloud applications](https://learn.microsoft.com/en-us/azure/architecture/best-practices/index-best-practices) | 27.2.1 API design, 27.2.2 API implementation, 27.2.3 Autoscaling, 27.2.4 Background jobs, 27.2.5 Caching, 27.2.6 Content Delivery Network, 27.2.7 Data partitioning, 27.2.8 Data partitioning strategies, 27.2.9 Host name preservation, 27.2.10 Message encoding considerations, 27.2.11 Monitoring and diagnostics, 27.2.12 Transient fault handling |
+| 27.2 | `best-practices.md` | Best practices | [Best practices in cloud applications](https://learn.microsoft.com/en-us/azure/architecture/best-practices/index-best-practices) | 27.2.1 API design, 27.2.2 API implementation, 27.2.3 Autoscaling, 27.2.4 Background jobs, 27.2.5 Caching, 27.2.6 Content Delivery Network, 27.2.7 Data partitioning, 27.2.8 Host name preservation, 27.2.9 Message encoding considerations, 27.2.10 Monitoring and diagnostics, 27.2.11 Transient fault handling |
 | 27.3 | `cloud-design-patterns.md` | Cloud design patterns | [Cloud design patterns](https://learn.microsoft.com/en-us/azure/architecture/patterns/) | 27.3.1 Cache-Aside, 27.3.2 Circuit Breaker, 27.3.3 Competing Consumers, 27.3.4 Event Sourcing, 27.3.5 Gateway Aggregation, 27.3.6 Gateway Offloading, 27.3.7 Gateway Routing, 27.3.8 Publisher-Subscriber, 27.3.9 Queue-Based Load Leveling, 27.3.10 Retry, 27.3.11 Sharding |
 | 27.4 | `technology-choices.md` | Technology choices | [Azure application architecture fundamentals: Make informed technology choices](https://learn.microsoft.com/en-us/azure/architecture/guide/#make-informed-technology-choices) | 27.4.1 Compute, 27.4.2 Data stores, 27.4.3 Messaging, 27.4.4 AI |
 | 27.5 | `architectures.md` | Architectures | [Browse Azure architectures](https://learn.microsoft.com/en-us/azure/architecture/browse/) | 27.5.1 Solution ideas, 27.5.2 Example workloads, 27.5.3 Reference architectures |
 
-27.3 lists the 11 patterns in the figure as H2, then the rest of the catalog (Ambassador to Valet Key) in one table. The technology choices point to their topics: compute to 4, data stores to 8 and 9, messaging to 10, AI to 13. The reference architectures taught in the courses (N-tier, Windows N-tier application, multi-region N-tier, PaaS and SaaS examples) are H3 inside 27.5.3.
+The reference architectures taught in the courses (N-tier, Windows N-tier application, multi-region N-tier, PaaS and SaaS examples) are H3 inside 27.5.3.
+
+Checked 2026-10-27: Best practices now lists 11 practices (no separate "Data partitioning strategies"); 27.3 shows the 11 planned patterns only; 27.5 quotes the one sentence that names all three architecture types, as context. The technology choices still point to their topics: compute to 4, data stores to 8 and 9, messaging to 10, AI to 13.
